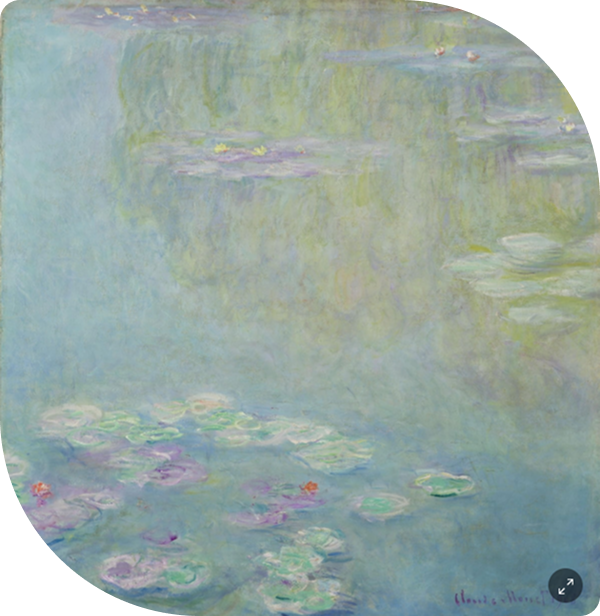
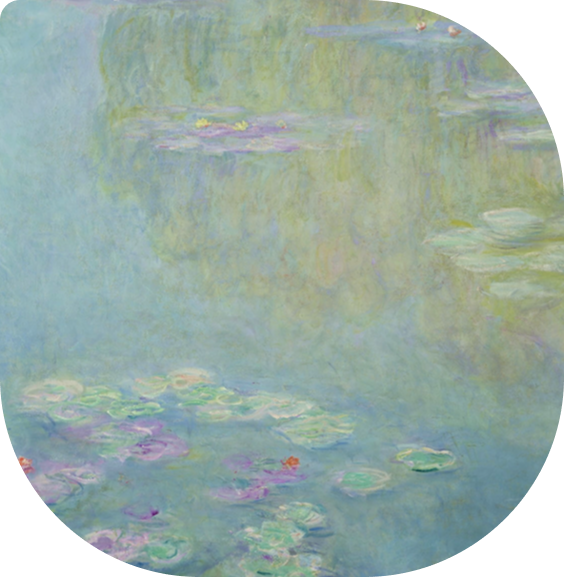
impress 배경 수정, 디자인 디테일 조정

diff --git a/impress-html/impress.html b/impress-html/impress.html
@@ -21,14 +21,17 @@
     <a id="hero" href="impress-section.html">
       <!-- 배경 -->
       <div class="hero-back">
-        <img class="hero-back-img" src="../img/impress-back.jpeg" alt="" />
+        <img class="hero-back-img" src="../img/impress-back.png" alt="" />
       </div>
       <!-- 메인 -->
       <div class="hero-title">
         <!-- 텍스트 -->
         <div class="hero-eng-name">
           <div>모네에서</div>
-          <div class="down">미국으로</div>
+          <div class="down">
+            미국
+            <div class="white">으로</div>
+          </div>
         </div>
         <div class="hero-eng-name-sub">빛, 바다를 건너다.</div>
         <div class="hero-kr-name">

diff --git a/impress-css/impress.css b/impress-css/impress.css
@@ -60,12 +60,13 @@ body {
 .hero-back-img {
   width: 100%;
   height: 100%;
+  opacity: 70%;
   object-fit: fill;
 }
 
 /* 히어로 텍스트 */
 .hero-title {
-  padding-top: 5rem;
+  padding-top: 12rem;
   margin-right: 14rem;
 
   z-index: 99;
@@ -75,11 +76,12 @@ body {
   display: flex;
   font-size: 80px;
   margin-top: 4.5rem;
-  margin-left: 0rem;
+  margin-left: 0.5rem;
 
   color: black;
 }
 .down {
+  display: flex;
   margin-left: 2rem;
 }
 .hero-eng-name-sub {
@@ -92,7 +94,7 @@ body {
 .hero-kr-name {
   display: flex;
   gap: 1rem;
-  margin-left: 17rem;
+  margin-left: 18rem;
 
   font-size: 30px;
   color: black;
